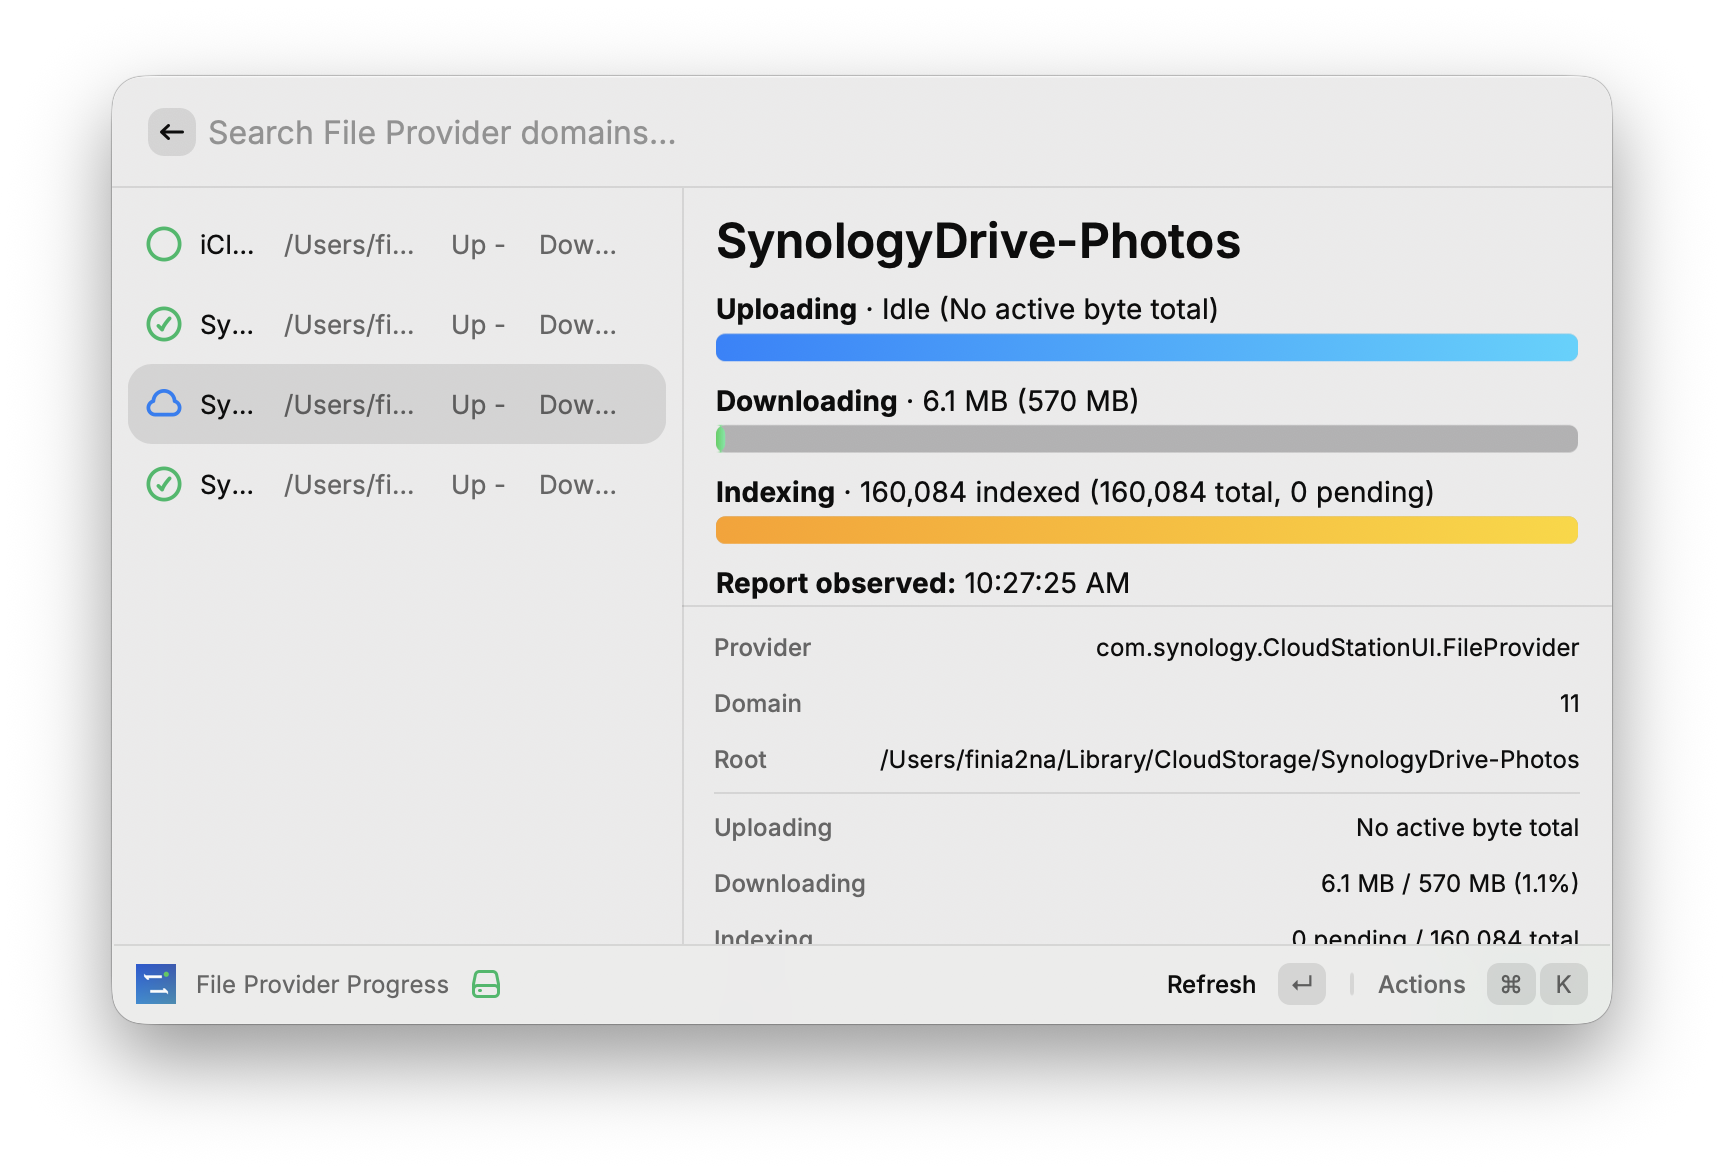
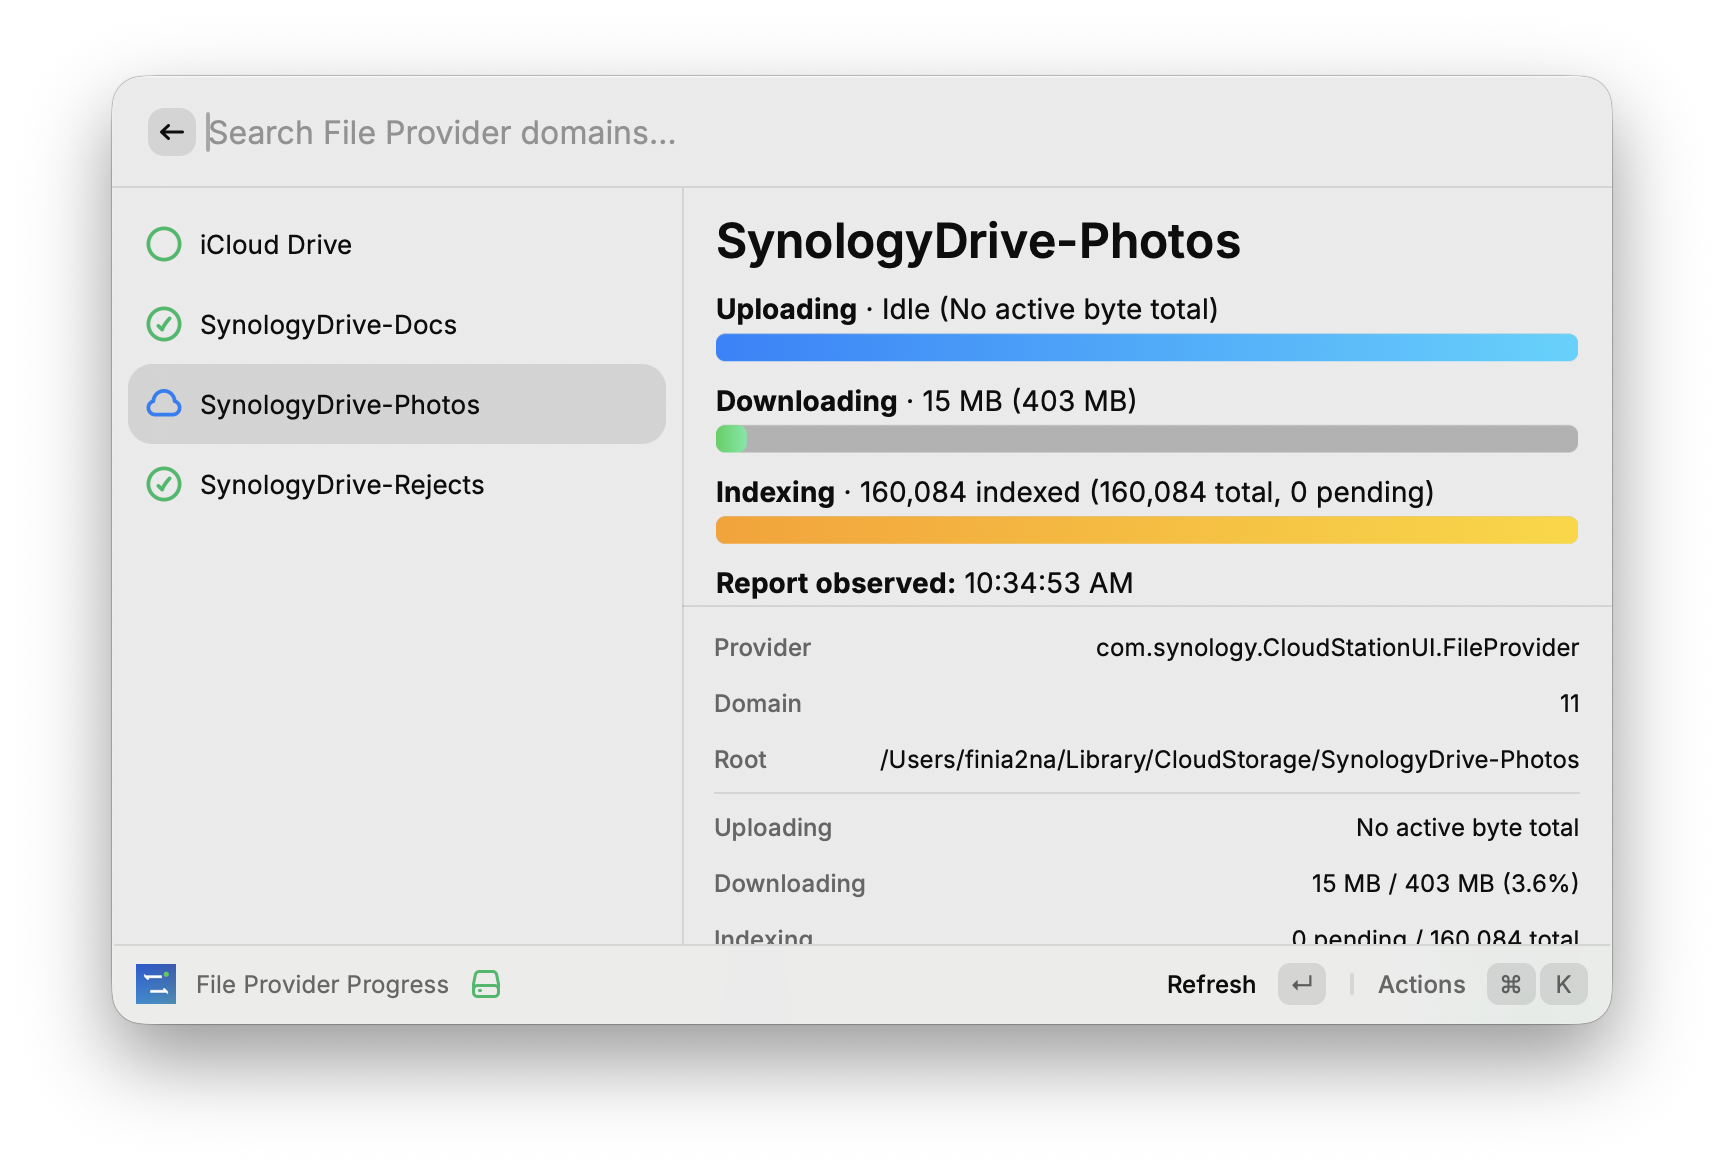
Clean up raycast sidebar, add open in finder option, new screenshot

diff --git a/raycast/src/status.tsx b/raycast/src/status.tsx
@@ -19,9 +19,7 @@ import {
   formatObservedAt,
   formatProgressMarkdown,
   formatTransfer,
-  formatTransferPercent,
   formatTransferProgressRow,
-  statusAccessory,
 } from "./formatting";
 import type { DomainSnapshot, StatusReport } from "./models";
 import { loadStatusReport } from "./probe";
@@ -99,13 +97,7 @@ function DomainItem({
   return (
     <List.Item
       title={domain.displayName}
-      subtitle={domain.rootPath}
       icon={domainStatusIcon(domain)}
-      accessories={[
-        { text: uploadAccessory(domain) },
-        { text: downloadAccessory(domain) },
-        { text: statusAccessory(domain) },
-      ]}
       detail={
         <List.Item.Detail
           markdown={markdown}
@@ -172,6 +164,7 @@ function DomainActions({
   return (
     <CommonActions onRefresh={onRefresh} report={report}>
       <ActionPanel.Section>
+        <Action.ShowInFinder title="Show Location in Finder" path={domain.rootPath} />
         <Action.CopyToClipboard title="Copy Domain JSON" content={JSON.stringify(domain, null, 2)} />
         <Action.CopyToClipboard title="Copy Domain Identifier" content={`${domain.providerId}/${domain.domainId}`} />
         <Action.CopyToClipboard title="Copy Root Path" content={domain.rootPath} />
@@ -246,12 +239,4 @@ function progressTable(domain: DomainSnapshot): string {
   return [
     ...rows.map(formatProgressMarkdown),
   ].join("\n\n");
-}
-
-function uploadAccessory(domain: DomainSnapshot): string {
-  return domain.upload ? `Up ${formatTransferPercent(domain.upload)}` : "Up -";
-}
-
-function downloadAccessory(domain: DomainSnapshot): string {
-  return domain.download ? `Down ${formatTransferPercent(domain.download)}` : "Down -";
 }
